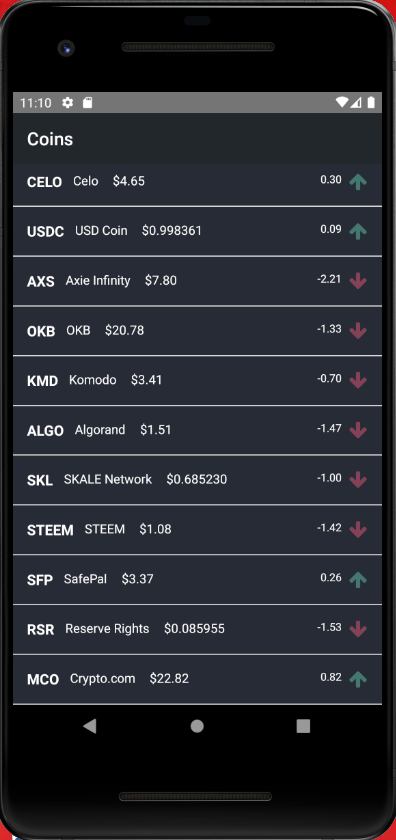
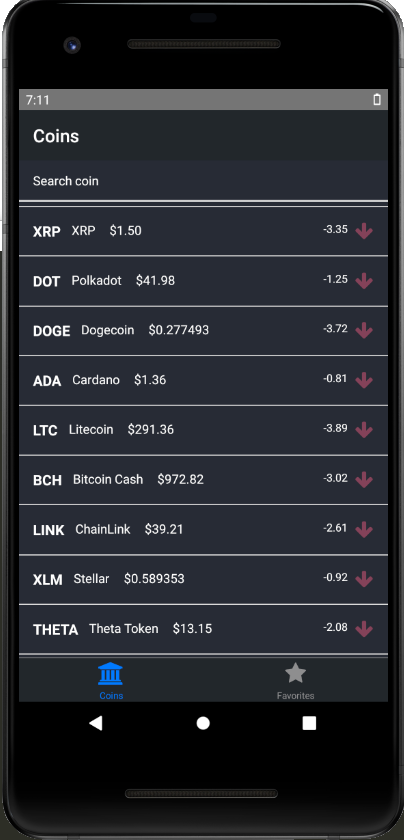
show favorites

diff --git a/src/components/favorites/FavoritesScreen.js b/src/components/favorites/FavoritesScreen.js
@@ -1,13 +1,64 @@
 import React, {Component} from 'react';
-import {View, Text, StyleSheet} from 'react-native';
+import {View, FlatList, Text, StyleSheet} from 'react-native';
 import FavoritesEmptyState from './FavoritesEmptyState';
 import Colors from 'cryptoTracker/src/res/colors';
+import Storage from 'cryptoTracker/src/libs/storage';
+import CoinsItem from 'cryptoTracker/src/components/coins/CoinsItem';
 
 class FavoritesScreen extends Component{
+    state = {
+        favorites:[]
+    }
+
+    handlePress =(coin) =>{
+        this.props.navigation.navigate('CoinDetail',{coin});
+    }
+
+    getFavorites = async () =>{
+        try{
+            const allKeys = await Storage.instance.getAllKeys();
+            const keys = allKeys.filter((key)=>key.includes("favorite-"));
+            const favs = await Storage.instance.multiGet(keys);
+            const favorites = favs.map((fav)=>JSON.parse(fav[1]));
+            console.log("favs",favorites);
+            this.setState({favorites});
+        }catch(e){
+            console.log("get favorites err",e);
+        }    
+    }
+
+    componentDidMount(){
+        this.props.navigation.addListener("focus",this.getFavorites);
+    }
+
+    componentWillUnmount(){
+        this.props.navigation.removeListener("focus", this.getFavorites);
+    }
+
     render(){
+        const {favorites} = this.state;
         return(
             <View style={styles.container}>
+            {
+                favorites.length == 0 ?
                 <FavoritesEmptyState/>
+                : null
+            }
+            {
+                favorites.length > 0 ?
+                    <FlatList
+                        data={favorites}
+                        renderItem={({item})=>
+                            <CoinsItem
+                                item={item}
+                                onPress={()=>this.handlePress(item)}
+                            />
+                        }
+                    />
+                    :
+                    null
+
+            }
             </View>
         );
     }

diff --git a/README.md b/README.md
@@ -2,3 +2,9 @@
 Created using **React Native Cli**
 
 ![Screen](https://github.com/santiago120600/crypto-tracker/blob/main/screen.png)
+
+
+![Screen_01](https://github.com/santiago120600/crypto-tracker/blob/main/screen01.png)
+
+
+![Screen_02](https://github.com/santiago120600/crypto-tracker/blob/main/screen02.png)
